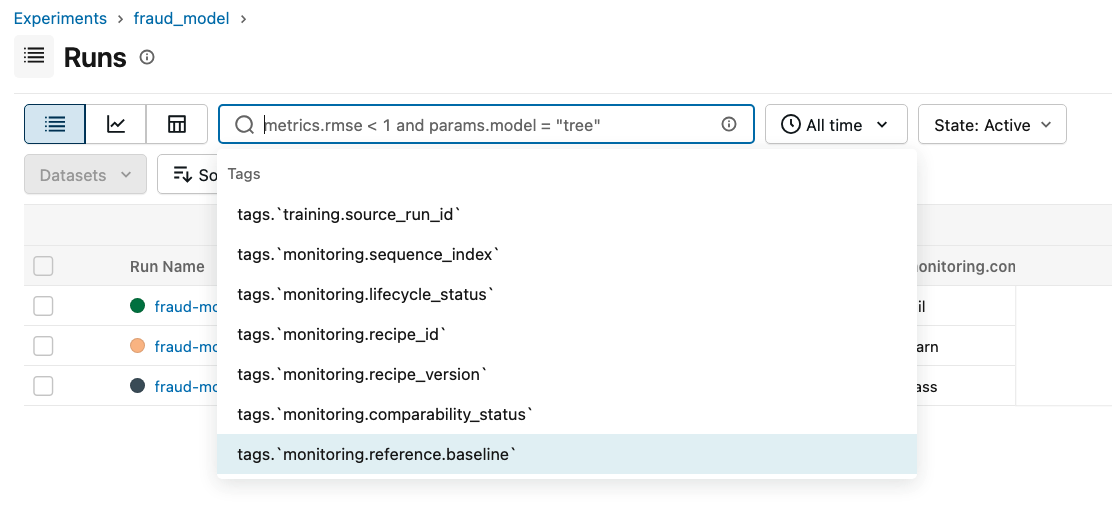
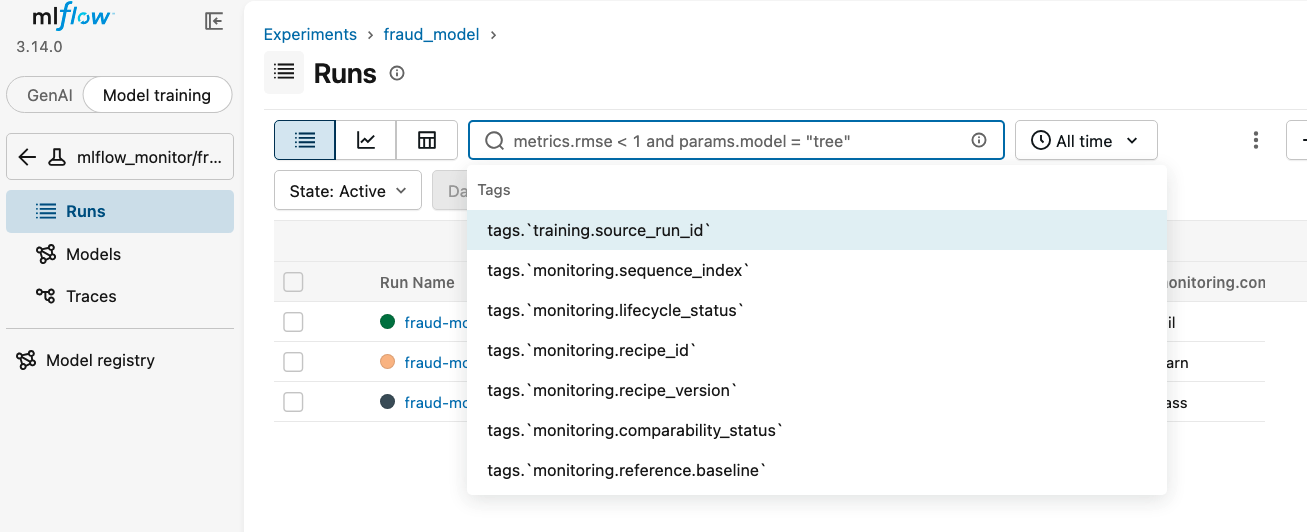
finalize screenshots

diff --git a/demo/README.md b/demo/README.md
@@ -213,7 +213,7 @@ The most readable proof points in the UI are:
 
 <p align="center">
   <img src="assets/monitoring-run-detail.png" alt="Monitoring run detail with result artifact" width="500" height="250">
-  <img src="assets/monitoring-run-tags.png" alt="Monitoring run tags showing lifecycle and comparability state" width="500" height="300">
+  <img src="assets/monitoring-run-tags.png" alt="Monitoring run tags showing lifecycle and comparability state" width="500" height="250">
 </p>
 
 ### Timeline Bookkeeping
